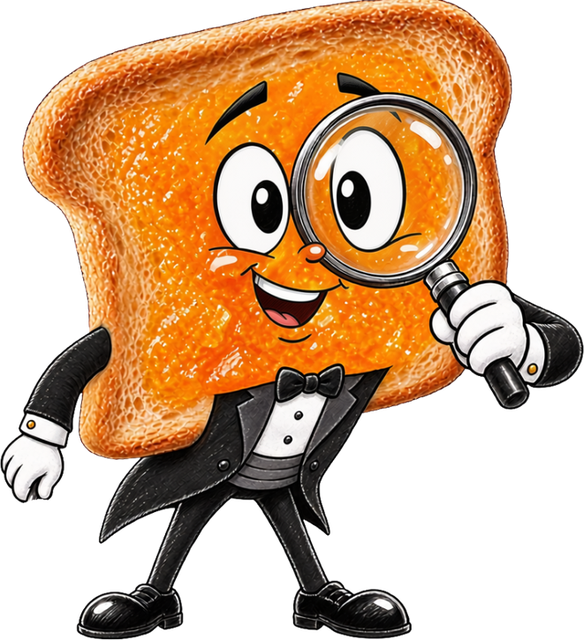
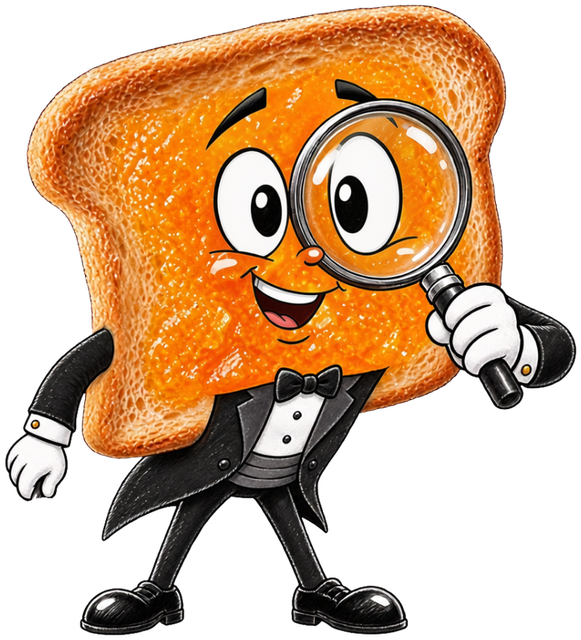
QA round: restore Maestro's full pose, finger hands for strawberry/grape/lemon, filled lemon shoes, measured accessory fit table
- Re-split Maestro art with full-image labeling so the pencil-baton hand is no longer cropped in the Ask tab
- Strawberry, Grape and Lemon now use the same 3-finger spray hands as Raspberry and Blueberry
- Lemon's outline shoes replaced with solid filled shoes
- Accessory positions (_avatarFits) regenerated numerically from each character's measured eye/mouth/head coordinates so hats, shades, bow ties and scarves sit where they should on every avatar

Claude-Session: https://claude.ai/code/session_01QFxDJg4rhAUSWpjSCme5q9

Changed region(s): [[0.0, 0.0, 1.0, 1.0]]

diff --git a/app/lib/widgets/dressed_avatar.dart b/app/lib/widgets/dressed_avatar.dart
@@ -52,49 +52,83 @@ const _avatarFits = <String, Map<String, _Fit>>{
     'stadium_scarf': _Fit(0.5, 0.7, 1.1),
     'mustache': _Fit(0.5, 0.52, 0.9),
   },
-  // The band (photo bodies; head/mouth positions from the composites).
   'strawberry': {
-    'beret': _Fit(0.32, 0.12, 1.1),
-    'mustache': _Fit(0.5, 0.62, 1.1),
-    'bow_tie': _Fit(0.5, 0.78, 0.9),
-    'blue_shades': _Fit(0.5, 0.42, 1.2),
-    'star_shades': _Fit(0.5, 0.42, 1.2),
+    'beret': _Fit(0.39, 0.16, 1.0),
+    'jar_crown': _Fit(0.5, 0.12, 1.0),
+    'crown_headset': _Fit(0.5, 0.13, 1.0),
+    'blue_shades': _Fit(0.5, 0.42, 0.9),
+    'star_shades': _Fit(0.5, 0.42, 0.9),
+    'mustache': _Fit(0.5, 0.56, 1.05),
+    'bow_tie': _Fit(0.5, 0.69, 0.9),
+    'bandana': _Fit(0.5, 0.7, 1.0),
+    'stadium_scarf': _Fit(0.5, 0.71, 1.1),
+    'leather_jacket': _Fit(0.5, 0.81, 1.2),
+    'champ_jacket': _Fit(0.5, 0.81, 1.2),
   },
   'jalapeno': {
-    'beret': _Fit(0.42, 0.06, 0.8),
-    'mustache': _Fit(0.5, 0.42, 1.0),
-    'bow_tie': _Fit(0.5, 0.56, 0.8),
-    'blue_shades': _Fit(0.5, 0.31, 0.9),
-    'star_shades': _Fit(0.5, 0.31, 0.9),
+    'beret': _Fit(0.39, 0.13, 1.0),
+    'jar_crown': _Fit(0.5, 0.1, 1.0),
+    'crown_headset': _Fit(0.5, 0.11, 1.0),
+    'blue_shades': _Fit(0.5, 0.33, 0.9),
+    'star_shades': _Fit(0.5, 0.33, 0.9),
+    'mustache': _Fit(0.5, 0.45, 1.05),
+    'bow_tie': _Fit(0.5, 0.58, 0.9),
+    'bandana': _Fit(0.5, 0.59, 1.0),
+    'stadium_scarf': _Fit(0.5, 0.61, 1.1),
+    'leather_jacket': _Fit(0.5, 0.71, 1.2),
+    'champ_jacket': _Fit(0.5, 0.71, 1.2),
   },
   'grape': {
-    'beret': _Fit(0.3, 0.14, 1.0),
-    'mustache': _Fit(0.5, 0.56, 1.0),
-    'bow_tie': _Fit(0.5, 0.72, 0.9),
-    'blue_shades': _Fit(0.49, 0.39, 1.15),
-    'star_shades': _Fit(0.49, 0.39, 1.15),
+    'beret': _Fit(0.38, 0.23, 1.0),
+    'jar_crown': _Fit(0.49, 0.2, 1.0),
+    'crown_headset': _Fit(0.49, 0.21, 1.0),
+    'blue_shades': _Fit(0.49, 0.39, 0.9),
+    'star_shades': _Fit(0.49, 0.39, 0.9),
+    'mustache': _Fit(0.5, 0.51, 1.05),
+    'bow_tie': _Fit(0.5, 0.64, 0.9),
+    'bandana': _Fit(0.5, 0.65, 1.0),
+    'stadium_scarf': _Fit(0.5, 0.67, 1.1),
+    'leather_jacket': _Fit(0.5, 0.77, 1.2),
+    'champ_jacket': _Fit(0.5, 0.77, 1.2),
   },
   'lemon': {
-    'beret': _Fit(0.34, 0.16, 1.0),
-    'mustache': _Fit(0.5, 0.6, 1.0),
-    'bow_tie': _Fit(0.5, 0.76, 0.9),
-    'blue_shades': _Fit(0.5, 0.43, 1.15),
-    'star_shades': _Fit(0.5, 0.43, 1.15),
+    'beret': _Fit(0.39, 0.28, 1.0),
+    'jar_crown': _Fit(0.5, 0.25, 1.0),
+    'crown_headset': _Fit(0.5, 0.26, 1.0),
+    'blue_shades': _Fit(0.5, 0.42, 0.9),
+    'star_shades': _Fit(0.5, 0.42, 0.9),
+    'mustache': _Fit(0.5, 0.54, 1.05),
+    'bow_tie': _Fit(0.5, 0.67, 0.9),
+    'bandana': _Fit(0.5, 0.68, 1.0),
+    'stadium_scarf': _Fit(0.5, 0.7, 1.1),
+    'leather_jacket': _Fit(0.5, 0.8, 1.2),
+    'champ_jacket': _Fit(0.5, 0.8, 1.2),
   },
   'raspberry': {
-    'beret': _Fit(0.32, 0.14, 1.0),
-    'mustache': _Fit(0.5, 0.64, 1.0),
-    'bow_tie': _Fit(0.5, 0.8, 0.9),
-    'blue_shades': _Fit(0.5, 0.46, 1.2),
-    'star_shades': _Fit(0.5, 0.46, 1.2),
+    'beret': _Fit(0.39, 0.22, 1.0),
+    'jar_crown': _Fit(0.5, 0.19, 1.0),
+    'crown_headset': _Fit(0.5, 0.2, 1.0),
+    'blue_shades': _Fit(0.5, 0.45, 0.9),
+    'star_shades': _Fit(0.5, 0.45, 0.9),
+    'mustache': _Fit(0.5, 0.62, 1.05),
+    'bow_tie': _Fit(0.5, 0.75, 0.9),
+    'bandana': _Fit(0.5, 0.76, 1.0),
+    'stadium_scarf': _Fit(0.5, 0.78, 1.1),
+    'leather_jacket': _Fit(0.5, 0.88, 1.2),
+    'champ_jacket': _Fit(0.5, 0.88, 1.2),
   },
   'blueberry': {
-    'beret': _Fit(0.3, 0.14, 1.1),
-    'mustache': _Fit(0.5, 0.58, 1.1),
-    'bow_tie': _Fit(0.5, 0.74, 0.9),
-    'blue_shades': _Fit(0.5, 0.44, 1.25),
-    'star_shades': _Fit(0.5, 0.44, 1.25),
-    'jar_crown': _Fit(0.5, 0.06, 1.1),
+    'beret': _Fit(0.39, 0.24, 1.0),
+    'jar_crown': _Fit(0.5, 0.21, 1.0),
+    'crown_headset': _Fit(0.5, 0.22, 1.0),
+    'blue_shades': _Fit(0.5, 0.45, 0.9),
+    'star_shades': _Fit(0.5, 0.45, 0.9),
+    'mustache': _Fit(0.5, 0.58, 1.05),
+    'bow_tie': _Fit(0.5, 0.71, 0.9),
+    'bandana': _Fit(0.5, 0.72, 1.0),
+    'stadium_scarf': _Fit(0.5, 0.74, 1.1),
+    'leather_jacket': _Fit(0.5, 0.84, 1.2),
+    'champ_jacket': _Fit(0.5, 0.84, 1.2),
   },
 };
 
